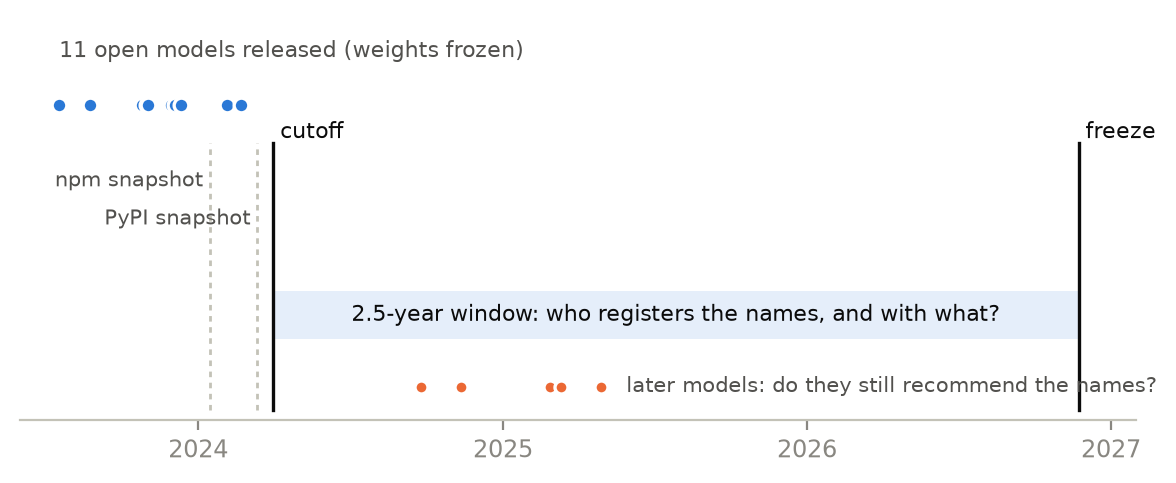
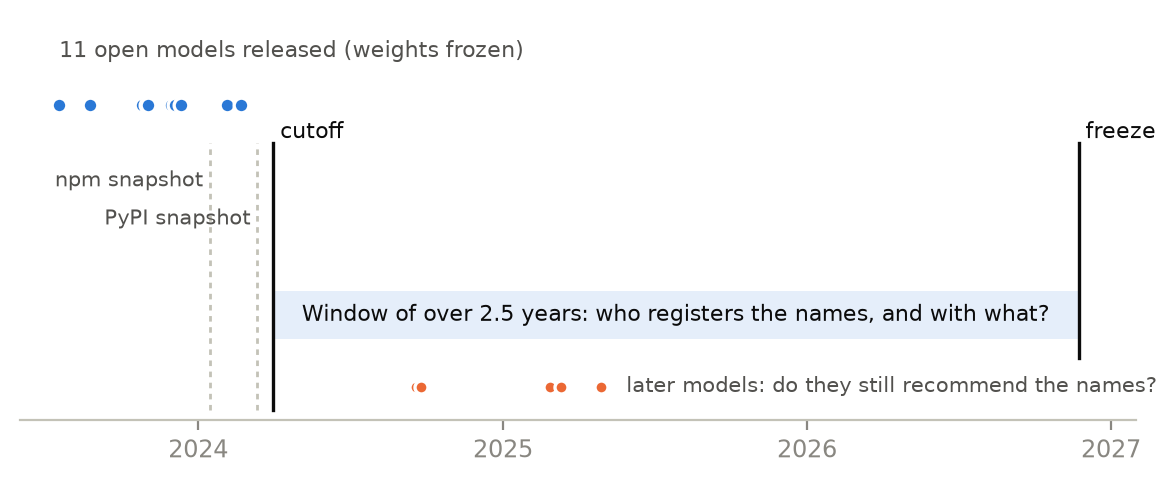
Study-design figure: label the observation window as over 2.5 years and keep the freeze line clear of the lower label

Changed region(s): [[0.2449, 0.6211, 0.8878, 0.6832], [0.3673, 0.7764, 0.398, 0.8075]]

diff --git a/src/08_figures.py b/src/08_figures.py
@@ -179,9 +179,9 @@ def fig_design():
     # row 1: observation window
     end = T("2026-11-23")
     ax.add_patch(plt.Rectangle((cut, 0.95), end - cut, 0.5, color=BLUE, alpha=0.12, lw=0))
-    ax.text(cut + (end - cut) / 2, 1.2, "2.5-year window: who registers the names, and with what?", ha="center",
+    ax.text(cut + (end - cut) / 2, 1.2, "Window of over 2.5 years: who registers the names, and with what?", ha="center",
             va="center", color=INK, fontsize=8)
-    ax.plot([end, end], [0.2, 3.0], color=INK, lw=1.2)
+    ax.plot([end, end], [0.75, 3.0], color=INK, lw=1.2)   # stops above the "later models" row so it does not cross its label
     ax.text(end, 3.0, " freeze", color=INK, fontsize=8, va="bottom")
     # row 0: later models
     ax.scatter(rel26, [0.45] * len(rel26), s=22, color=ORANGE, zorder=3, edgecolor=SURF, linewidth=1.2)
